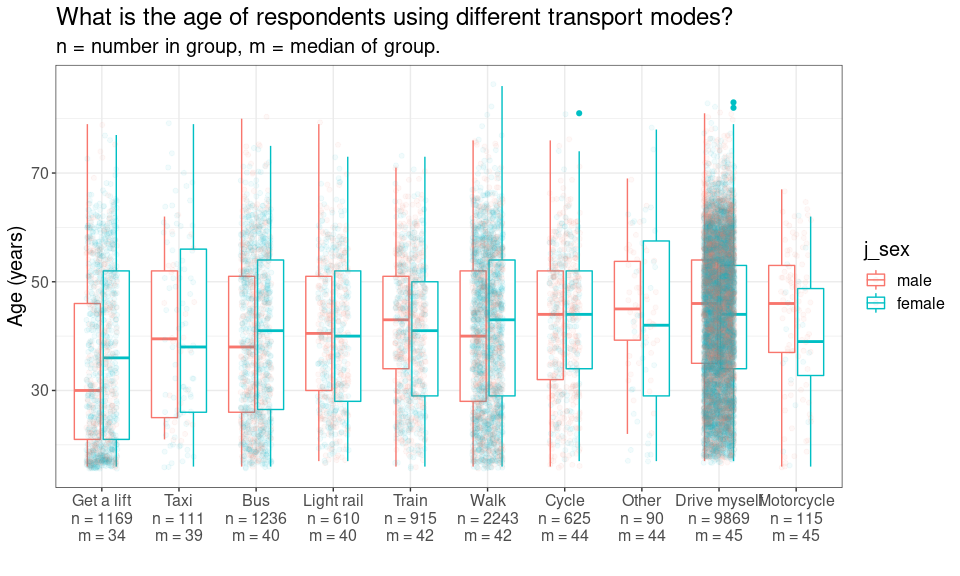
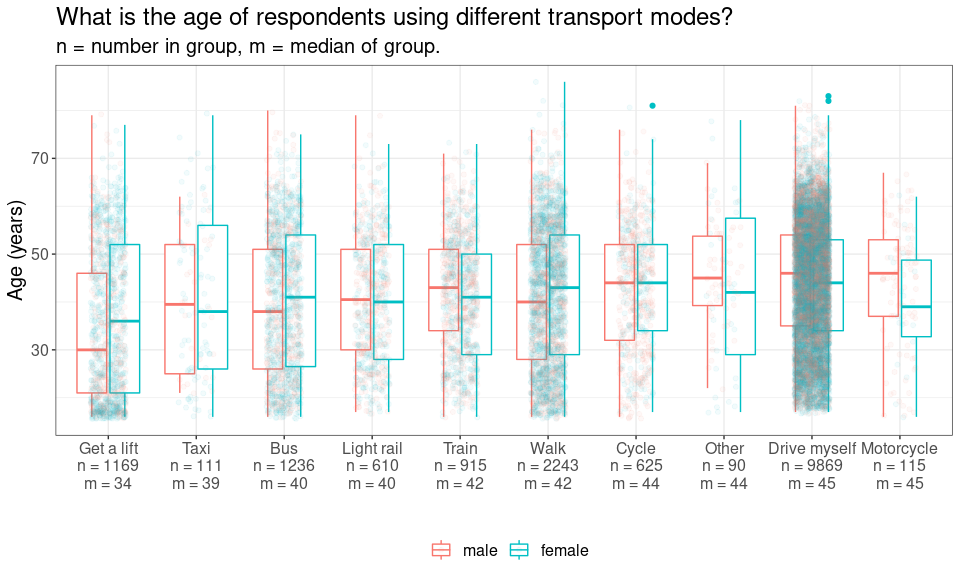
sex added to plots

diff --git a/transport_presentation_deets.md b/transport_presentation_deets.md
@@ -39,7 +39,8 @@ df = read_dta("~/Cloud/personal/gofcoe/understanding_society/6614stata_B17CC6790
   select(pidp, j_pdvage, j_sex,
          contains("j_wktrv"), j_workdis,
          j_fimnnet_dv,
-         j_benbase1, j_benbase2, j_benbase4)
+         j_benbase1, j_benbase2, j_benbase4) %>% 
+  mutate(j_sex = as_factor(j_sex))
 ```
 
 ``` r
@@ -78,7 +79,8 @@ df_long = df %>%
   select(contains("j_wktrv"), j_pdvage, j_sex, j_fimnnet_dv, j_workdis) %>% 
   pivot_longer(contains("j_wktrv")) %>% 
   filter(value == 1) %>% 
-  left_join(tran_opt)
+  left_join(tran_opt) %>% 
+  filter(!is.na(val))
 ```
 
 ## Results
@@ -86,23 +88,40 @@ df_long = df %>%
 ### Group sizes
 
 ``` r
-df_long
+df_long %>% 
+  count(val, j_sex) %>% 
+  pivot_wider(names_from = j_sex, values_from = n) %>% 
+  kable()
 ```
 
-    ## # A tibble: 17,407 x 7
-    ##    j_pdvage      j_sex j_fimnnet_dv j_workdis name              value val       
-    ##       <dbl>  <dbl+lbl>        <dbl>     <dbl> <chr>         <dbl+lbl> <chr>     
-    ##  1       33 2 [female]        1290.         3 j_wktrv1 1 [Yes mentio… Drive mys…
-    ##  2       33 2 [female]        1290.         3 j_wktrv6 1 [Yes mentio… Bus       
-    ##  3       33 2 [female]        1290.         3 j_wktrv8 1 [Yes mentio… Light rail
-    ##  4       41 2 [female]        2760          3 j_wktrv1 1 [Yes mentio… Drive mys…
-    ##  5       35 2 [female]        2862         28 j_wktrv1 1 [Yes mentio… Drive mys…
-    ##  6       39 2 [female]        3094.        30 j_wktrv1 1 [Yes mentio… Drive mys…
-    ##  7       28 2 [female]        1742.        10 j_wktrv1 1 [Yes mentio… Drive mys…
-    ##  8       31 2 [female]        2354.        20 j_wktrv6 1 [Yes mentio… Bus       
-    ##  9       31 2 [female]        2354.        20 j_wktrv7 1 [Yes mentio… Train     
-    ## 10       36 1 [male]           254.         1 j_wktrv… 1 [Yes mentio… Walk      
-    ## # … with 17,397 more rows
+| val          | male | female |
+|:-------------|-----:|-------:|
+| Bus          |  457 |    779 |
+| Cycle        |  413 |    212 |
+| Drive myself | 4480 |   5389 |
+| Get a lift   |  408 |    761 |
+| Light rail   |  318 |    292 |
+| Motorcycle   |   97 |     18 |
+| Other        |   54 |     36 |
+| Taxi         |   26 |     85 |
+| Train        |  486 |    429 |
+| Walk         |  830 |   1413 |
+
+``` r
+df_long %>% 
+  count(val, j_sex) %>% 
+  ggplot(aes(val, n, fill = j_sex)) +
+  geom_col(position = "fill") +
+  scale_y_continuous(labels = scales::percent) +
+  labs(title = "What is the proportion of each sex by transport type?",
+       x = "",
+       y = "Respondents",
+       fill = "") +
+  theme_temp() +
+  theme(legend.position="bottom")
+```
+
+![](transport_presentation_deets_files/figure-gfm/sizes%20plot-1.png)<!-- -->
 
 ### Age and mode of transport
 
@@ -114,7 +133,6 @@ y = df_long %>%
   mutate(lab = paste0(val, "\nn = ", n, "\nm = ", round(median_in)))
 
 df_long %>% 
-  filter(!is.na(val)) %>% 
   left_join(y) %>% 
   mutate(lab = fct_reorder(lab, median_in)) %>% 
   ggplot(aes(lab, j_pdvage)) +
@@ -144,18 +162,18 @@ y = df_long %>%
   mutate(lab = paste0(val, "\nn = ", n, "\nm = ", round(median_in)))
 
 df_long %>% 
-  filter(!is.na(val)) %>% 
   left_join(y) %>% 
-  mutate(lab = fct_reorder(lab, median_in),
-         j_sex = as_factor(j_sex)) %>% 
+  mutate(lab = fct_reorder(lab, median_in)) %>% 
   ggplot(aes(lab, j_pdvage, colour = j_sex)) +
   geom_boxplot() +
   geom_jitter(width = 0.2, alpha = 0.05) +
   labs(title = "What is the age of respondents using different transport modes?",
        subtitle = "n = number in group, m = median of group.",
        x = "",
-       y = "Age (years)") +
-  theme_temp()
+       y = "Age (years)",
+       colour = "") +
+  theme_temp() +
+  theme(legend.position="bottom")
 ```
 
 ![](transport_presentation_deets_files/figure-gfm/age%20and%20sex-1.png)<!-- -->
@@ -167,8 +185,8 @@ x = df %>%
   filter(j_wktrv1 == 1)
 
 x %>% 
-  ggplot(aes(j_workdis)) +
-  stat_ecdf() +
+  ggplot(aes(j_workdis, colour = j_sex)) +
+  stat_ecdf(size = 1.2) +
   geom_vline(xintercept = 1.5, linetype = "dotted") +
   geom_vline(xintercept = 5, linetype = "dashed") +
   geom_vline(xintercept = 10, linetype = "dotdash") +
@@ -177,8 +195,10 @@ x %>%
   labs(title = "How many car commutes could be active travel?",
        subtitle = "Vertical lines of: walking, cycling, e-cycling.\nNote x axis is cropped.",
        x = "Distance to work (miles)",
-       y = "Percent of respondents") +
-  theme_temp()
+       y = "Percent of respondents",
+       colour = "") +
+  theme_temp() +
+  theme(legend.position="bottom")
 ```
 
 ![](transport_presentation_deets_files/figure-gfm/distance%20mode-1.png)<!-- -->
@@ -190,6 +210,10 @@ x %>%
     cycling distance (5 miles)
 -   5762 of 9871 (58 %) of respondents drive to work is less than
     electric cycling distance (10 miles)
+-   More men travel further to work
+-   What are the barriers to women undertaking short journeys
+    sustainably? Is this linked to trip chaining, unsafe routes,
+    something else?
 
 ### Income and mode of transport
 
@@ -201,7 +225,6 @@ y = df_long %>%
   mutate(lab = paste0(val, "\nn = ", n, "\nm = ", round(median_in)))
 
 df_long %>% 
-  filter(!is.na(val)) %>% 
   left_join(y) %>% 
   mutate(lab = fct_reorder(lab, median_in)) %>% 
   ggplot(aes(lab, j_fimnnet_dv)) +
@@ -229,8 +252,7 @@ df_long %>%
 
 ``` r
 df_long %>% 
-  filter(value == 1 &
-           !is.na(val)) %>% 
+  filter(value == 1) %>% 
   ggplot(aes(j_pdvage, j_fimnnet_dv)) +
   geom_point(alpha = 0.15) +
   stat_smooth() +
@@ -246,8 +268,7 @@ df_long %>%
 
 ``` r
 df_long %>% 
-  filter(value == 1 &
-           !is.na(val)) %>% 
+  filter(value == 1) %>% 
   ggplot(aes(j_workdis, j_fimnnet_dv)) +
   geom_point(alpha = 0.15) +
   stat_smooth() +
